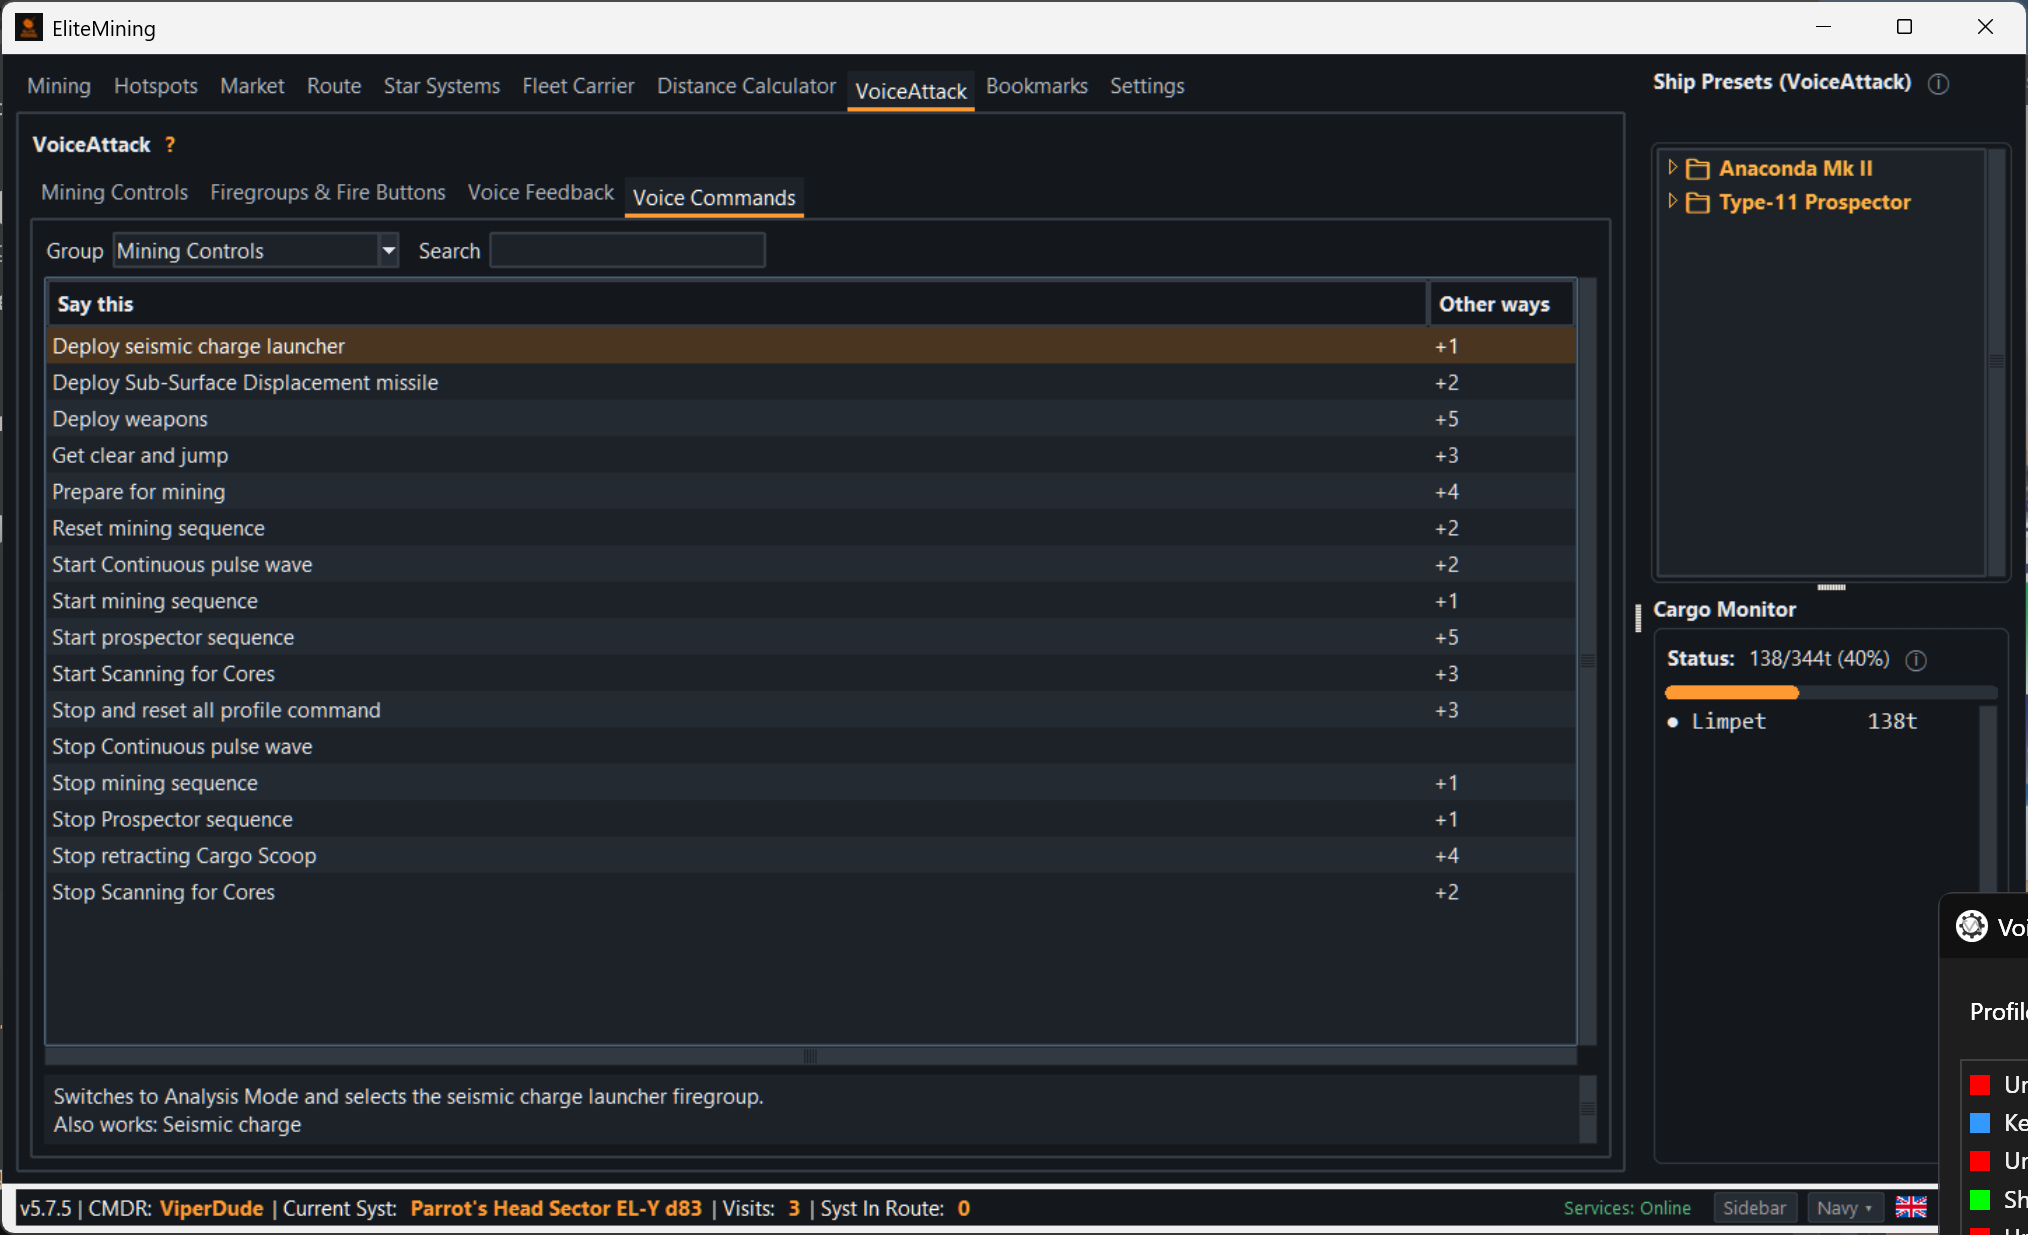
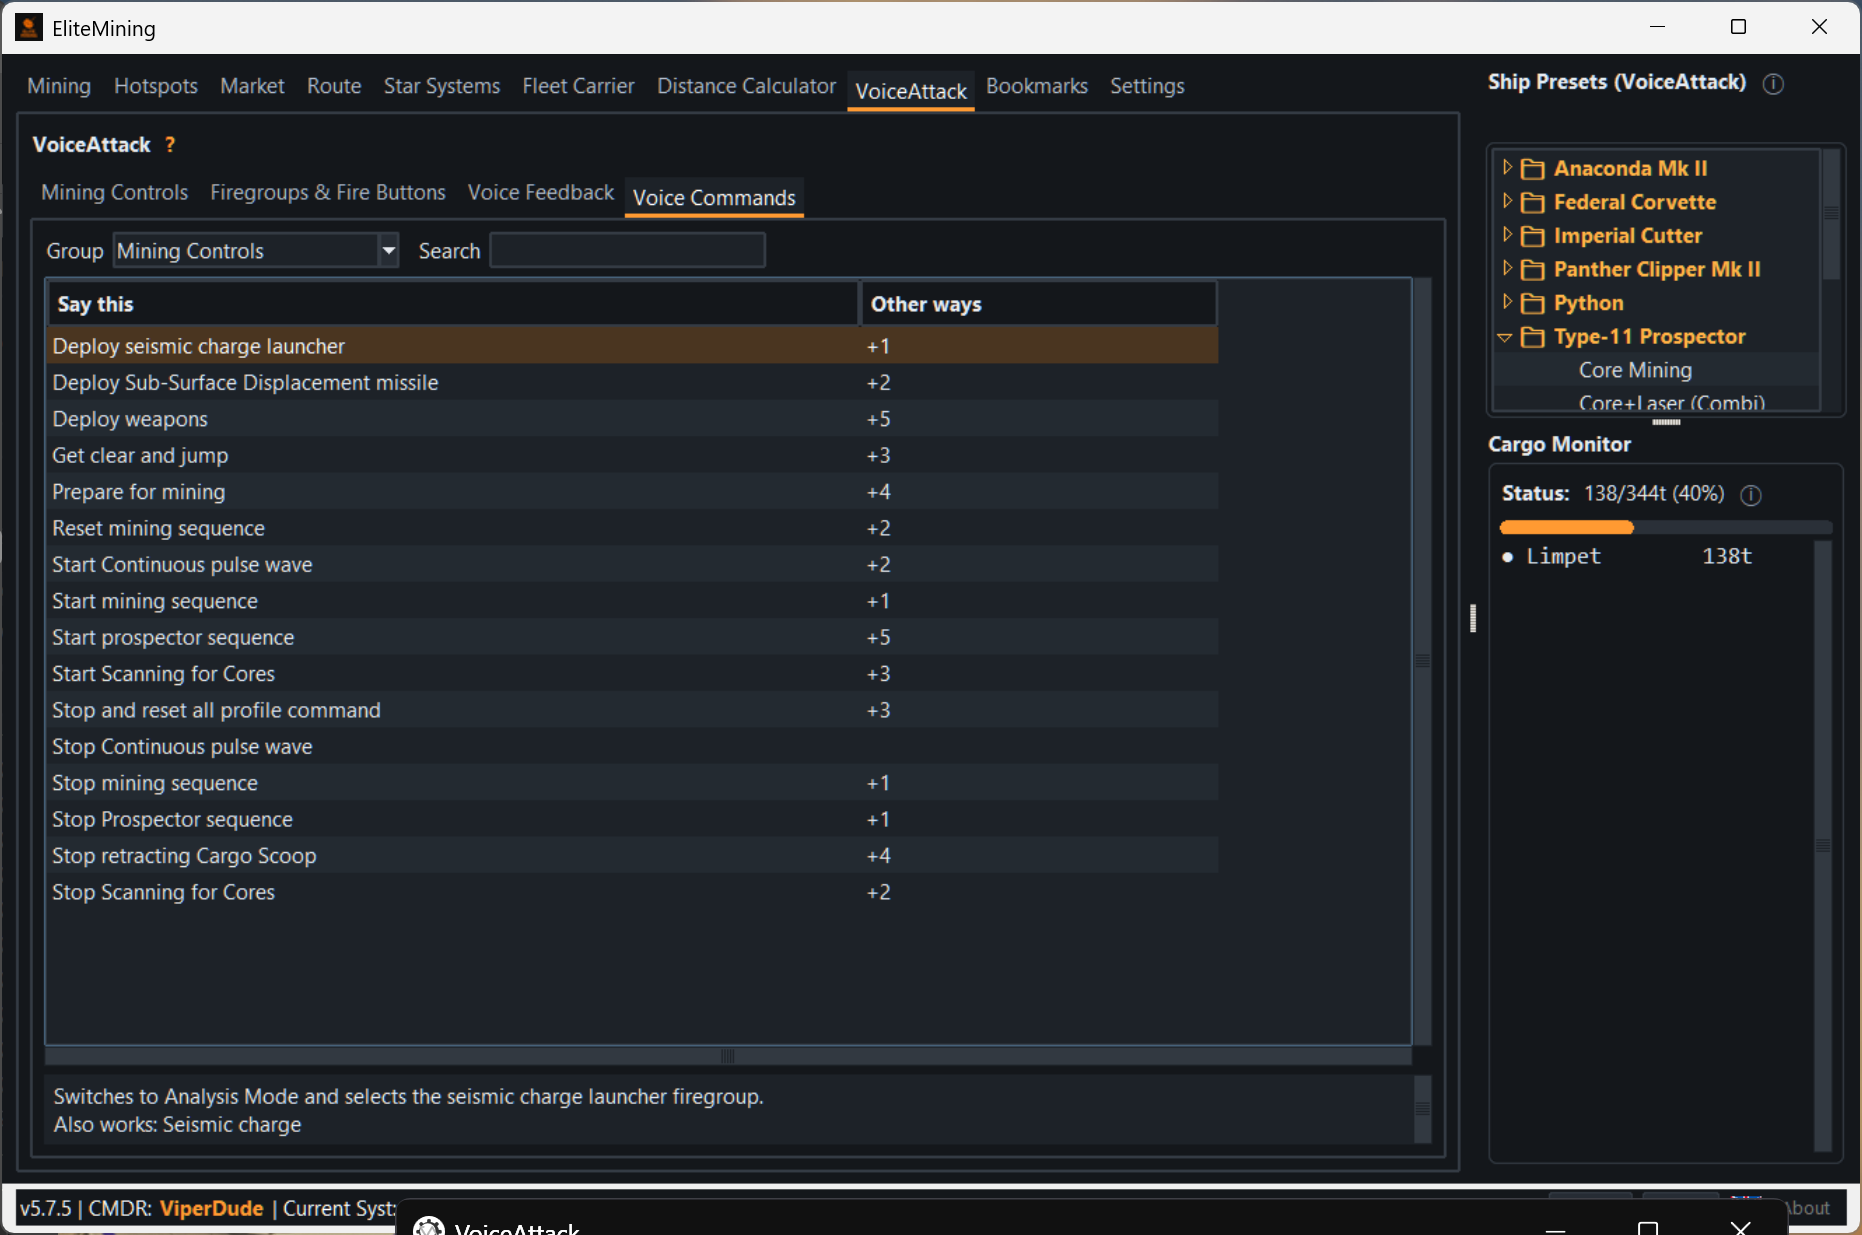
Keep separate Voice Commands column widths while searching
The Group column only shows during a search, so browsing and searching
each remember their own widths, and only a real column drag is saved.

diff --git a/app/va_reference_tab.py b/app/va_reference_tab.py
@@ -15,6 +15,7 @@ from va_phrase_reference import GROUPS, ReferenceEntry, ReferenceRow, load_refer
 
 log = logging.getLogger(__name__)
 _WIDTHS_KEY = "va_reference_column_widths"
+_SEARCH_WIDTHS_KEY = "va_reference_search_column_widths"
 _COLUMN_WIDTHS = {"say_this": 470, "other_ways": 105, "group": 160}
 
 
@@ -52,13 +53,18 @@ class VoiceCommandsTab(ttk.Frame):
         self._tree = StripedTreeview(table, columns=self._columns, displaycolumns=self._columns[:2],
                                      show="headings", selectmode="browse", height=10)
         heading_font = tkfont.Font(root=self, font=scaled_font(9, "bold"))
-        saved_widths = _load_cfg().get(_WIDTHS_KEY) or {}
-        self._widths = {}
+        cfg = _load_cfg()
+        saved_widths = cfg.get(_WIDTHS_KEY) or {}
+        saved_search_widths = cfg.get(_SEARCH_WIDTHS_KEY) or {}
+        self._widths = {_WIDTHS_KEY: {}, _SEARCH_WIDTHS_KEY: {}}
+        self._widths_key = _WIDTHS_KEY
+        self._resize_start = None
         for column, default in _COLUMN_WIDTHS.items():
             label = t(f"voiceattack.reference_{column}")
             min_width = heading_font.measure(label) + scaled_px(24)
             width = max(min_width, saved_widths.get(column, scaled_px(default)))
-            self._widths[column] = width
+            self._widths[_WIDTHS_KEY][column] = width
+            self._widths[_SEARCH_WIDTHS_KEY][column] = max(min_width, saved_search_widths.get(column, width))
             self._tree.heading(column, text=label, anchor="w")
             self._tree.column(column, width=width, minwidth=min_width, anchor="w", stretch=False)
 
@@ -69,6 +75,7 @@ class VoiceCommandsTab(ttk.Frame):
         vertical.grid(row=0, column=1, sticky="ns")
         horizontal.grid(row=1, column=0, sticky="ew")
         self._tree.bind("<<TreeviewSelect>>", self._show_details)
+        self._tree.bind("<ButtonPress-1>", self._start_resize, add="+")
         self._tree.bind("<ButtonRelease-1>", self._save_widths, add="+")
 
         theme = get_theme_colors(load_theme())
@@ -151,7 +158,9 @@ class VoiceCommandsTab(ttk.Frame):
 
     def _refresh_rows(self, *args):
         search = self._search.get().strip()
-        self._tree.configure(displaycolumns=self._columns if search else self._columns[:2])
+        widths_key = _SEARCH_WIDTHS_KEY if search else _WIDTHS_KEY
+        if widths_key != self._widths_key:
+            self._apply_column_layout(widths_key)
         self._tree.delete(*self._tree.get_children())
         self._row_details.clear()
         self._tree.xview_moveto(0)
@@ -184,8 +193,36 @@ class VoiceCommandsTab(ttk.Frame):
         self._details.yview_moveto(0)
         self._details.configure(state="disabled")
 
+    def _apply_column_layout(self, widths_key):
+        self._widths_key = widths_key
+        self._resize_start = None
+        widths = self._widths[widths_key].copy()
+        columns = self._columns[:2]
+        if widths_key == _SEARCH_WIDTHS_KEY:
+            columns = self._columns
+            # Reserve room for Group without saving the fitted widths as a manual resize.
+            overflow = sum(widths.values()) - self._tree.winfo_width() + scaled_px(4)
+            for column in columns:
+                if overflow <= 0:
+                    break
+                minimum = self._tree.column(column, "minwidth")
+                reduction = min(overflow, widths[column] - minimum)
+                widths[column] -= reduction
+                overflow -= reduction
+
+        self._tree.configure(displaycolumns=columns)
+        for column in columns:
+            self._tree.column(column, width=widths[column])
+
+    def _start_resize(self, event):
+        if self._tree.identify_region(event.x, event.y) == "separator":
+            self._resize_start = {column: self._tree.column(column, "width") for column in self._columns}
+
     def _save_widths(self, event):
+        if self._resize_start is None:
+            return
         widths = {column: self._tree.column(column, "width") for column in self._columns}
-        if widths != self._widths:
-            self._widths = widths
-            update_config_value(_WIDTHS_KEY, widths)
+        if widths != self._resize_start:
+            self._widths[self._widths_key] = widths
+            update_config_value(self._widths_key, widths)
+        self._resize_start = None
